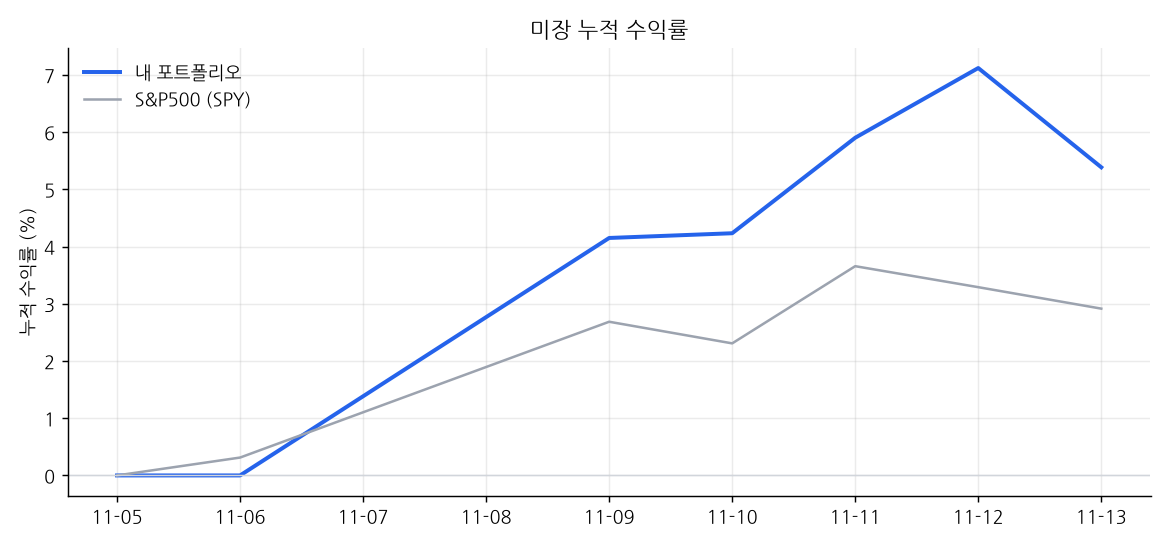
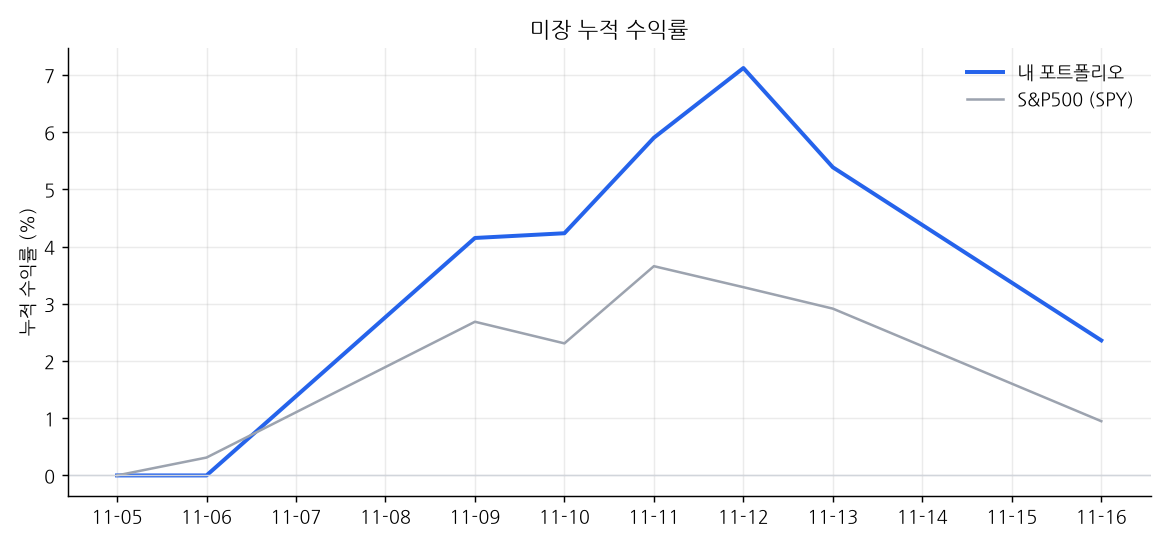
dashboard 2026-11-17 07:30

diff --git a/README.md b/README.md
@@ -1,10 +1,10 @@
 # 📈 내 자동매매 포트폴리오
 
-_마지막 갱신: 2026-11-16 16:00 (KST) · 라즈베리파이 자동 업데이트_
+_마지막 갱신: 2026-11-17 07:30 (KST) · 라즈베리파이 자동 업데이트_
 
 | 트랙 | 시작일 | 누적 수익률 | 비교 지수 | 초과 | 최근 1개월 | 국면 |
 |---|---|---|---|---|---|---|
-| 미장 | 2026-11-05 | **+5.39%** | +2.92% | +2.47% | - | BULL |
+| 미장 | 2026-11-05 | **+2.36%** | +0.95% | +1.41% | - | BULL |
 | 국장 | 2026-11-06 | **+0.28%** | +1.13% | -0.85% | - | BEAR |
 
 ## 미장
@@ -13,17 +13,17 @@ _마지막 갱신: 2026-11-16 16:00 (KST) · 라즈베리파이 자동 업데이
 
 | 종목 | 비중 |
 |---|---|
-| AMD | 11.2% |
-| AVGO | 10.6% |
+| AMD | 10.9% |
+| AVGO | 10.5% |
 | TSLA | 10.4% |
-| AAPL | 9.9% |
+| AAPL | 10.0% |
 | META | 9.8% |
-| AMZN | 9.7% |
-| LLY | 9.6% |
-| GOOGL | 9.6% |
-| MSFT | 9.0% |
-| NVDA | 7.9% |
-| 현금 | 2.3% |
+| LLY | 9.8% |
+| AMZN | 9.6% |
+| GOOGL | 9.5% |
+| MSFT | 9.2% |
+| NVDA | 7.8% |
+| 현금 | 2.4% |
 
 ![미장 비중](charts/us_weights.png)
 
